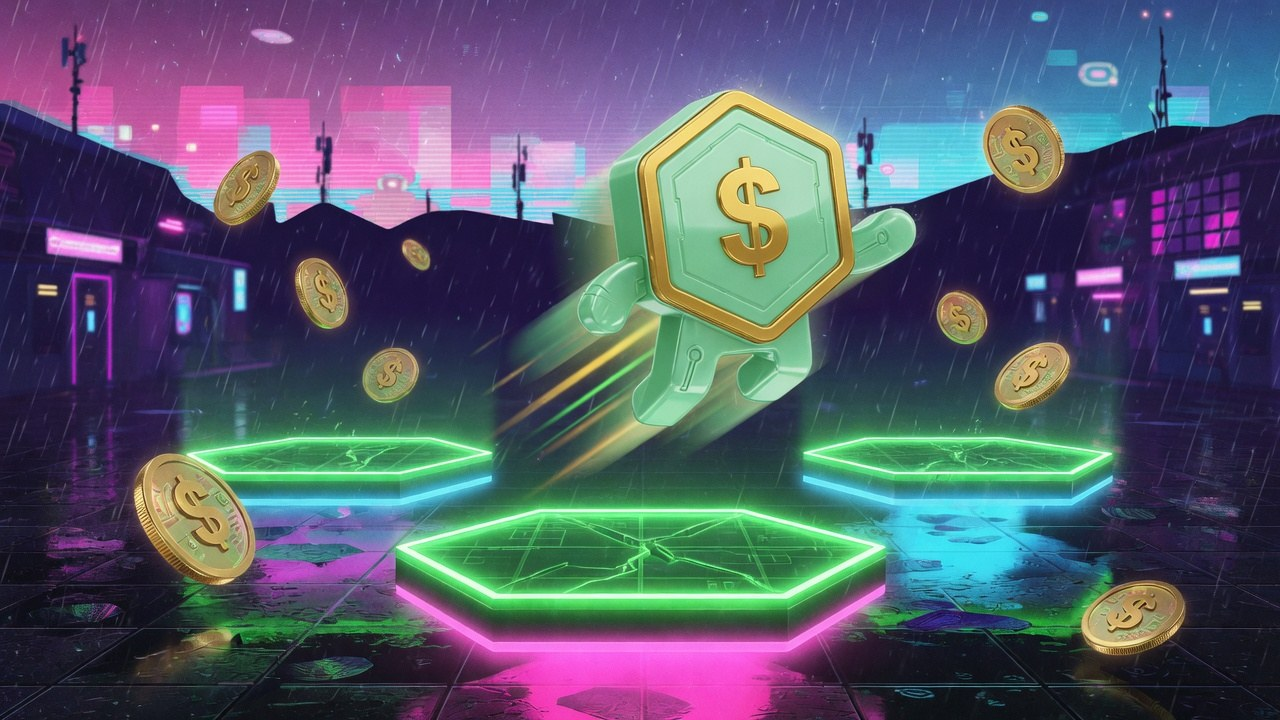
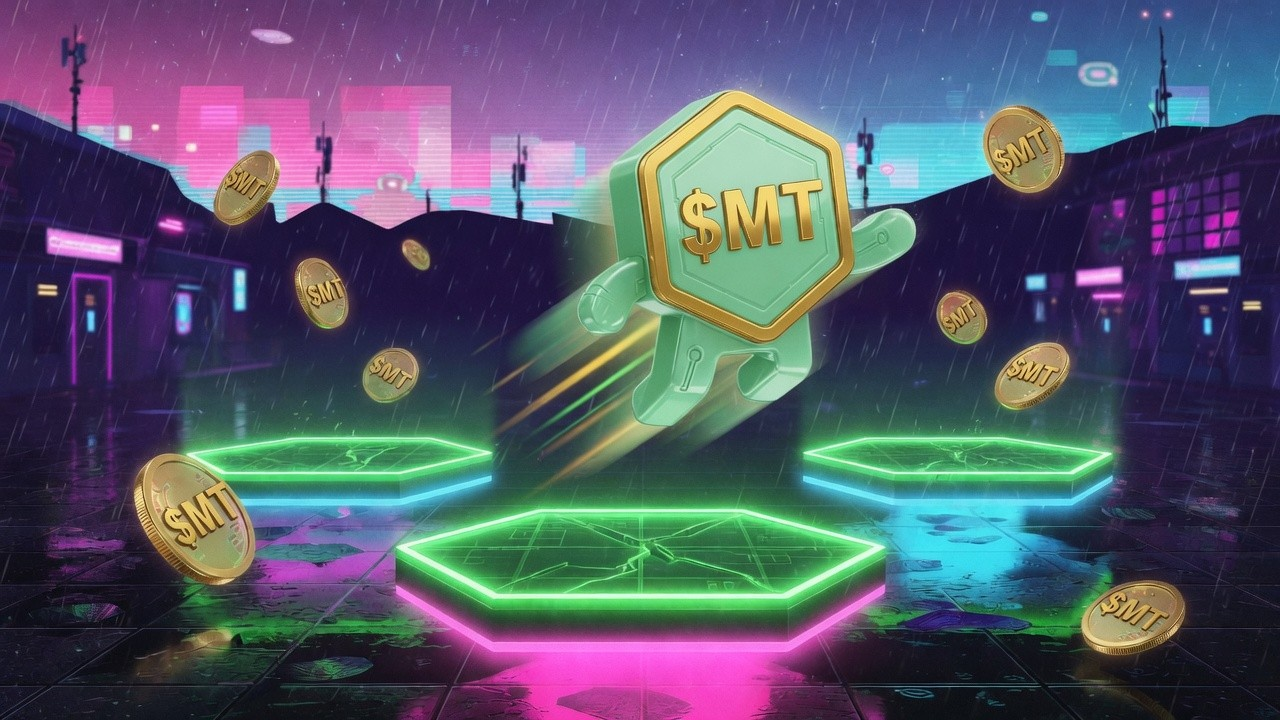
Shrink Jump so it fits under bricks and stamp $MT on the art
Runner hitbox and sprite are smaller, low bricks sit one tile higher, and $MT is on the character, coins, Jump cover, Pac cover, and $MT Pac face.

diff --git a/memetorrent-react/public/games/mtjump/index.html b/memetorrent-react/public/games/mtjump/index.html
@@ -307,8 +307,8 @@
       tiles[groundY][x] = 1; tiles[groundY + 1][x] = 1;
       if (x > 8 && x % 7 === 0) tiles[groundY - 1][x] = 3;
       if (x > 12 && x % 16 === 0) {
-        tiles[groundY - 2][x] = 2; tiles[groundY - 2][x + 1] = 5; tiles[groundY - 2][x + 2] = 2;
-        tiles[groundY - 3][x + 1] = 3;
+        tiles[groundY - 3][x] = 2; tiles[groundY - 3][x + 1] = 5; tiles[groundY - 3][x + 2] = 2;
+        tiles[groundY - 4][x + 1] = 3;
       }
       if (x > 20 && x % 21 === 0) tiles[groundY - 1][x] = 4;
       if (x > 28 && x % 24 === 0) tiles[groundY - 1][x] = 7;
@@ -351,9 +351,9 @@
     persist();
     const level = buildLevel(wid);
     game = {
-      player: { x: 48, y: (level.groundY - 2) * level.th, w: 14, h: 20, vx: 0, vy: 0, onGround: false, facing: 1, inv: 0, jumps: 0 },
+      player: { x: 48, y: level.groundY * level.th - 12, w: 10, h: 12, vx: 0, vy: 0, onGround: false, facing: 1, inv: 0, jumps: 0 },
       camX: 0, lives, score: 0, coinsRun: 0, level, enemies: spawnEnemies(level),
-      flag: level.w - 48, spawnX: 48, spawnY: (level.groundY - 2) * level.th,
+      flag: level.w - 48, spawnX: 48, spawnY: level.groundY * level.th - 12,
       won: false, dead: false, buffs, t: 0, _fallLock: false, world: WORLDS[wid],
     };
     coyote = 0; jumpBuffer = 0; dashCd = 0; mode = "play"; hideOverlay(); ensureMusic();
@@ -516,21 +516,21 @@
     if (fade) ctx.globalAlpha = 0.4;
     ctx.translate(px + w / 2, py + h);
     ctx.scale(facing || 1, 1);
-    const bob = moving && !air ? Math.sin(t * 16) * 1.4 : 0;
-    const leg = moving && !air ? Math.sin(t * 16) * 3.4 : (air ? 3 : 0);
+    const bob = moving && !air ? Math.sin(t * 16) * 0.6 : 0;
+    const leg = moving && !air ? Math.sin(t * 16) * 1.6 : (air ? 1.4 : 0);
     ctx.fillStyle = P.shoe;
-    ctx.fillRect(-6, -7 + leg, 5, 7);
-    ctx.fillRect(0, -7 - leg, 5, 7);
+    ctx.fillRect(-4, -4 + leg, 3, 4);
+    ctx.fillRect(0.5, -4 - leg, 3, 4);
     ctx.fillStyle = P.limb;
-    ctx.fillRect(-7, -h + 6 + bob, 3.5, 8);
-    ctx.fillRect(3, -h + 6 + bob, 3.5, 8);
-    ctx.translate(0, -h * 0.52 + bob);
-    hexPath(0, 0, 9.2); ctx.fillStyle = P.glow; ctx.fill();
-    hexPath(0, 0, 8); ctx.fillStyle = P.rim; ctx.fill();
-    hexPath(0, 0, 6.2); ctx.fillStyle = P.body; ctx.fill();
-    ctx.fillStyle = P.face; ctx.font = "bold 8px sans-serif"; ctx.textAlign = "center"; ctx.textBaseline = "middle";
-    ctx.fillText("$", 0, 1);
-    ctx.fillStyle = "#fff"; ctx.fillRect(facing > 0 ? 1.5 : -3.5, -2.2, 2.2, 2.2);
+    ctx.fillRect(-4.2, -h + 4 + bob, 2.2, 4);
+    ctx.fillRect(2, -h + 4 + bob, 2.2, 4);
+    ctx.translate(0, -h * 0.55 + bob);
+    hexPath(0, 0, 5.4); ctx.fillStyle = P.glow; ctx.fill();
+    hexPath(0, 0, 4.6); ctx.fillStyle = P.rim; ctx.fill();
+    hexPath(0, 0, 3.6); ctx.fillStyle = P.body; ctx.fill();
+    ctx.fillStyle = P.face; ctx.font = "bold 3.4px sans-serif"; ctx.textAlign = "center"; ctx.textBaseline = "middle";
+    ctx.fillText("$MT", 0, 0.3);
+    ctx.fillStyle = "#fff"; ctx.fillRect(facing > 0 ? 0.8 : -2.2, -1.6, 1.4, 1.4);
     ctx.restore();
   }
 
@@ -559,7 +559,7 @@
         const sx = (x * tw - cam) * sc, sy = y * th * sc, sw = tw * sc, sh = th * sc;
         if (t === 1) { ctx.fillStyle = thm.dirt; ctx.fillRect(sx, sy, sw + 0.5, sh + 0.5); ctx.fillStyle = thm.ground; ctx.fillRect(sx, sy, sw + 0.5, sh * 0.32); }
         if (t === 2) { ctx.fillStyle = thm.brick; ctx.fillRect(sx, sy, sw, sh); ctx.strokeStyle = "rgba(255,255,255,.2)"; ctx.strokeRect(sx + 1, sy + 1, sw - 2, sh - 2); }
-        if (t === 3) { ctx.fillStyle = "#fbbf24"; ctx.beginPath(); ctx.arc(sx + sw / 2, sy + sh / 2, sw * 0.3, 0, Math.PI * 2); ctx.fill(); ctx.fillStyle = "#78350f"; ctx.font = `${Math.max(8, sw * 0.55)}px sans-serif`; ctx.textAlign = "center"; ctx.fillText("$", sx + sw / 2, sy + sh / 2 + 1); }
+        if (t === 3) { ctx.fillStyle = "#fbbf24"; ctx.beginPath(); ctx.arc(sx + sw / 2, sy + sh / 2, sw * 0.34, 0, Math.PI * 2); ctx.fill(); ctx.fillStyle = "#78350f"; ctx.font = `bold ${Math.max(5, sw * 0.32)}px sans-serif`; ctx.textAlign = "center"; ctx.textBaseline = "middle"; ctx.fillText("$MT", sx + sw / 2, sy + sh / 2 + 0.5); }
         if (t === 4) { ctx.fillStyle = "#047857"; ctx.fillRect(sx, sy, sw, sh); ctx.fillStyle = "#064e3b"; ctx.fillRect(sx - 3, sy, sw + 6, sh * 0.32); }
         if (t === 5) { ctx.fillStyle = "#f59e0b"; ctx.fillRect(sx, sy, sw, sh); ctx.fillStyle = "#fff"; ctx.font = `bold ${sw * 0.7}px sans-serif`; ctx.textAlign = "center"; ctx.fillText("?", sx + sw / 2, sy + sh * 0.72); }
         if (t === 6) { ctx.fillStyle = "#e5e7eb"; ctx.fillRect(sx + sw * 0.45, sy - sh * 2.2, 3, sh * 3.2); ctx.fillStyle = "#19d37e"; ctx.beginPath(); ctx.moveTo(sx + sw * 0.45, sy - sh * 2.2); ctx.lineTo(sx + sw * 0.45 + 20, sy - sh * 1.6); ctx.lineTo(sx + sw * 0.45, sy - sh); ctx.fill(); }
@@ -584,7 +584,7 @@
     refreshParty();
     const settings = party?.settings || { miniLives: 3, miniSpeed: 1, theme: "day", miniEnabled: true };
     if (settings.miniEnabled === false) { toast("Mini disabled"); return; }
-    mini = { t: 0, timeLeft: 30, score: 0, lives: settings.miniLives || 3, speed: settings.miniSpeed || 1, theme: settings.theme || "day", player: { x: W / 2, y: H - 60, w: 28, h: 28 }, coins: [], bombs: [], spawn: 0 };
+    mini = { t: 0, timeLeft: 30, score: 0, lives: settings.miniLives || 3, speed: settings.miniSpeed || 1, theme: settings.theme || "day", player: { x: W / 2, y: H - 52, w: 18, h: 20 }, coins: [], bombs: [], spawn: 0 };
     mode = "mini"; hideOverlay();
     document.getElementById("hudMode").textContent = "Coin Rush";
   }
@@ -707,7 +707,7 @@
       x.fillStyle = P.shoe; x.fillRect(-8, -6, 6, 6); x.fillRect(2, -6, 6, 6);
       x.fillStyle = P.rim; x.beginPath(); for (let i = 0; i < 6; i++) { const a = Math.PI/6+i*Math.PI/3; const px = Math.cos(a)*12, py = Math.sin(a)*12-10; i?x.lineTo(px,py):x.moveTo(px,py); } x.closePath(); x.fill();
       x.fillStyle = P.body; x.beginPath(); for (let i = 0; i < 6; i++) { const a = Math.PI/6+i*Math.PI/3; const px = Math.cos(a)*9, py = Math.sin(a)*9-10; i?x.lineTo(px,py):x.moveTo(px,py); } x.closePath(); x.fill();
-      x.fillStyle = P.face; x.font = "bold 10px sans-serif"; x.textAlign = "center"; x.fillText("$", 0, -8);
+      x.fillStyle = P.face; x.font = "bold 7px sans-serif"; x.textAlign = "center"; x.fillText("$MT", 0, -8);
       save.activeSkin = old;
     });
   }

diff --git a/memetorrent-react/lib/mt-catalog.ts b/memetorrent-react/lib/mt-catalog.ts
@@ -95,7 +95,7 @@ export const CATALOG: CatalogGame[] = [
     kind: 'arcade',
     status: 'live',
     play: '/pacman',
-    img: '/games/covers/pacman.png?v=3',
+    img: '/games/covers/pacman.png?v=4',
     blurb: 'Full arcade menu. $MT Pac is a mint hex token, not the yellow pie. Play / Turbo / Practice / Cutscenes / High scores.',
   },
   {
@@ -221,7 +221,7 @@ export const CATALOG: CatalogGame[] = [
     kind: 'arcade',
     status: 'live',
     play: '/mtjump',
-    img: '/games/covers/mtjump.jpg?v=2',
+    img: '/games/covers/mtjump.jpg?v=3',
     blurb: 'Mint token runner. Three worlds. Skins and shop buy with coins. Air hop, dash, springs, ? blocks.',
   },
   {

diff --git a/memetorrent-react/public/games/unix/1/pacman.js b/memetorrent-react/public/games/unix/1/pacman.js
@@ -6620,12 +6620,12 @@ var drawMtPacSprite = function(ctx,x,y,dirEnum,frame,rot_angle) {
 
     ctx.fillStyle = "#fef3c7";
     ctx.strokeStyle = "#052e16";
-    ctx.lineWidth = 0.7;
-    ctx.font = "bold 7px sans-serif";
+    ctx.lineWidth = 0.45;
+    ctx.font = "bold 4.2px sans-serif";
     ctx.textAlign = "center";
     ctx.textBaseline = "middle";
-    ctx.fillText("$", -0.4, 0.6);
-    ctx.strokeText("$", -0.4, 0.6);
+    ctx.fillText("$MT", 0, 0.4);
+    ctx.strokeText("$MT", 0, 0.4);
 
     ctx.beginPath();
     ctx.arc(-2.2, -2.4, 1.1, 0, Math.PI*2);

diff --git a/memetorrent-react/public/games/unix/1/src/sprites.js b/memetorrent-react/public/games/unix/1/src/sprites.js
@@ -1772,12 +1772,12 @@ var drawMtPacSprite = function(ctx,x,y,dirEnum,frame,rot_angle) {
 
     ctx.fillStyle = "#fef3c7";
     ctx.strokeStyle = "#052e16";
-    ctx.lineWidth = 0.7;
-    ctx.font = "bold 7px sans-serif";
+    ctx.lineWidth = 0.45;
+    ctx.font = "bold 4.2px sans-serif";
     ctx.textAlign = "center";
     ctx.textBaseline = "middle";
-    ctx.fillText("$", -0.4, 0.6);
-    ctx.strokeText("$", -0.4, 0.6);
+    ctx.fillText("$MT", 0, 0.4);
+    ctx.strokeText("$MT", 0, 0.4);
 
     ctx.beginPath();
     ctx.arc(-2.2, -2.4, 1.1, 0, Math.PI*2);
